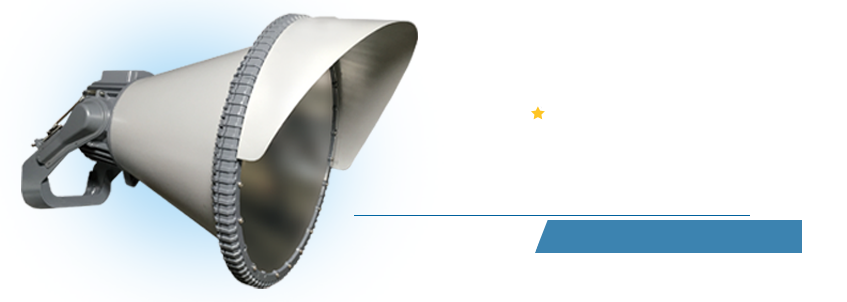
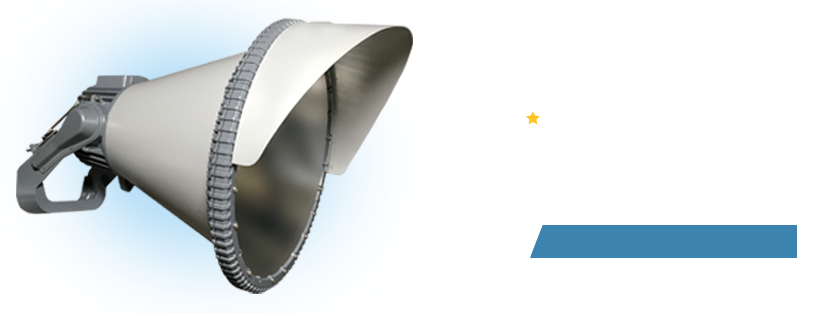
u

diff --git a/wanjie/css/common.css b/wanjie/css/common.css
@@ -15,6 +15,9 @@ body {
 	height: 60px;
 	padding: 10px;
 	margin-bottom: 0px;
+	position: fixed;
+    width: 100%;
+    z-index: 99999;
 }
 #wanjie_title {
 	float: right;
@@ -39,7 +42,7 @@ body {
 	display: none;
     border-bottom: 1px solid #2F7096;
     margin: 0 auto;
-    margin-top: -5px;
+    margin-top: -1px;
 }
 #wanjie_title>li>a:focus, #wanjie_title>li>a:hover {
     background-color: transparent;
@@ -55,15 +58,9 @@ body {
 .wanjie_banner {
 	width: 100%;
 	float: left;
+	margin-top: 60px;
 }
-.wanjie_banner_index {
-	width: 100%;
-	float: left;
-	background-image: url('./../images/banner.png');
-	height: 389px;
-    background-size: 100% 100%;
-    background-repeat: no-repeat;
-}
+
 img {
 	width: 100%;
 }
@@ -98,6 +95,8 @@ li {
 	text-align: center;
     padding: 10px;
     line-height: 25px;
+    padding-top: 60px;
+    margin-bottom: -60px;
 }
 .pro_footer {
 	background-color: #e5e9eb;
@@ -178,6 +177,18 @@ img{
 	top: 21%;
 	left: 2.5%;
 }
+.wanjie_banner_index {
+	margin-top: 60px; 
+}
+@media screen and (min-width: 500px) {
+.wanjie_banner_index {
+	width: 100%;
+	float: left;
+	background-image: url('./../images/banner.png');
+	height: 389px;
+    background-size: 100% 100%;
+    background-repeat: no-repeat;
+}
 .wanjie_banner_box {
 	background-image: url('./../images/banner_cover.png');
 	width: 597px;
@@ -186,8 +197,50 @@ img{
     background-position: center;
     background-repeat: no-repeat;
     margin: 0 auto;
+
+}
+.wanjie_banner_text_m {
+    width: 286px;
+    height: 85px;
+    position: relative;
+    float: right;
+    right: 32px;
+    top: 145px;
+    /*border: 1px solid;*/
+    color: #fff;
+    text-align: right;
+}
+.wanjie_banner_text_m .wanjie_banner_text1 {
+	font-size: 37px;
+    letter-spacing: 3px;
+}
+.wanjie_banner_text_m .wanjie_banner_text2 {
+	font-size: 12px;
+}
+}
+@media screen and (max-width: 500px) {
+.wanjie_banner_index {
+	width: 100%;
+	float: left;
+	background-image: url('./../images/banner.png');
+	height: 289px;
+    background-size: 100% 100%;
+    background-repeat: no-repeat;
+}
+.wanjie_banner_box {
+	background-image: url('./../images/banner_cover_m.png');
+	width: 100% !important;
+    height: 320px;
+    background-size: 100%;
+    background-position: center;
+    background-repeat: no-repeat;
+    margin: 0 auto;
+}
+.wanjie_banner_text_m {
+    display: none;
 }
 
+}
 .banner_text .inner_text{
 	font-size: 24px;
 	display: block;
@@ -292,9 +345,10 @@ img{
     overflow: hidden;
     width: 90px;
     position: relative;
+    font-size: 12px;
 }
 #wanjie_title_m .hid {
-	padding-left: 0px !important;
+	padding-left: 6px !important;
 }
 #wanjie_title_m>li>a:focus, #wanjie_title_m>li>a:hover {
     background-color: transparent;
@@ -477,19 +531,19 @@ p{margin: 0;padding: 0;}
 	padding: 1px 0;
 }
 .icon-1{
-	background-image: url(../images/icon_1.jpg);
+	background-image: url(../images/icon_1.png);
 }
 .icon-2{
-	background-image: url(../images/icon_2.jpg);
+	background-image: url(../images/icon_2.png);
 }
 .icon-3{
-	background-image: url(../images/icon_3.jpg);
+	background-image: url(../images/icon_3.png);
 }
 .icon-4{
-	background-image: url(../images/icon_4.jpg);
+	background-image: url(../images/icon_4.png);
 }
 .icon-5{
-	background-image: url(../images/icon_5.jpg);
+	background-image: url(../images/icon_5.png);
 }
 
 /*table*/
@@ -554,24 +608,7 @@ p{margin: 0;padding: 0;}
     color: #fff;
     text-align: right;
 }
-.wanjie_banner_text_m {
-    width: 286px;
-    height: 85px;
-    position: relative;
-    float: right;
-    right: 32px;
-    top: 145px;
-    /*border: 1px solid;*/
-    color: #fff;
-    text-align: right;
-}
-.wanjie_banner_text_m .wanjie_banner_text1 {
-	font-size: 37px;
-    letter-spacing: 3px;
-}
-.wanjie_banner_text_m .wanjie_banner_text2 {
-	font-size: 12px;
-}
+
 .wanjie_banner_text span {
 	display: block;
 }

diff --git a/wanjie/call.html b/wanjie/call.html
@@ -4,13 +4,25 @@
 <meta charset="utf-8">
 <meta http-equiv="X-UA-Compatible" content="IE=edge,chrome=1">
 <meta name="viewport" content="width=device-width, initial-scale=1.0, maximum-scale=1.0, user-scalable=no">
-<title>产品介绍－上海万介智能科技有限公司</title>
+<title>联系我们－上海万介智能科技有限公司</title>
 <meta name="description" content="">
 <meta name="keywords" content="">
 <link rel="stylesheet" href="http://cdn.bootcss.com/bootstrap/3.3.5/css/bootstrap.min.css">
 <script src="http://cdn.bootcss.com/jquery/1.11.3/jquery.min.js"></script>
 <script src="http://cdn.bootcss.com/bootstrap/3.3.5/js/bootstrap.min.js"></script>
 <link rel="stylesheet" type="text/css" href="./css/common.css">
+<link rel="stylesheet" type="text/css" href="./css/mobile.css">
+<style type="text/css">
+@media screen and (max-width: 767px) {
+body {
+	font-size:12px;
+}
+.call_content_inner {
+	height: 480px;
+	background-image: none;
+}
+}	
+</style>
 </head>
 <body>
 <!-- 导航开始 -->

diff --git a/wanjie/index.html b/wanjie/index.html
@@ -52,7 +52,7 @@
 	<ul>
 		<li>
 			<img src="./images/page_1.png">
-			<!-- <video src="http://ali.ldsnwangjun.cn/Final.mp4" controls="controls" loop="loop" autoplay="autoplay" id="media"></video> -->
+			<!-- <video src="http://kylerstudio.com/wanjie/video580.mp4" controls="controls" loop="loop" autoplay="autoplay" id="media"></video> -->
 		</li>
 		<li><a href="./program.html?#anli" class="wanjie_img"><img src="./images/page_2.png"><span>应用案例</span></a></li>
 		<li><a href="./program.html?1#fanwei" class="wanjie_img"><img src="./images/page_3.png"><span>应用范围</span></a></li>
@@ -113,7 +113,7 @@ $(document).ready(function() {
 			$('.wanjie_button').css('display', 'none');
 			$('.wanjie_img').find('span').css('margin-top', '0px')
 			$('.wanjie_banner_box').css('width', '597px')
-			$('.wanjie_banner_text_m').addClass('wanjie_banner_text').removeClass('wanjie_banner_text_m')
+			$('.wanjie_banner_text_m').addClass('wanjie_banner_text').removeClass('wanjie_banner_text_m');
 
 		}
 	}

diff --git a/wanjie/program.html b/wanjie/program.html
@@ -101,7 +101,7 @@
 	<div class="title">机场 | 码头</div>
 	<div class="record">
 		<div class="item">
-			<div class="img-wrap"><img src="images/range_1.jpg"></div>
+			<div class="img-wrap"><img src="images/range_1.png"></div>
 			<div class="words-wrap">
 				<div class="bg-black">
 					<p class="con con-3">机场和码头作为关键设施，对照明有特殊性要求：基于场地安全性及功能性的考量，照明系统应具备投射距离远，长寿命、低维护，高显色性，可调光及智能化远程控制等功能，以提供优良的照明光环境，满足运营安全、视频监控和自动化作业的需要。 </p>

diff --git a/wanjie/about.html b/wanjie/about.html
@@ -4,7 +4,7 @@
 <meta charset="utf-8">
 <meta http-equiv="X-UA-Compatible" content="IE=edge,chrome=1">
 <meta name="viewport" content="width=device-width, initial-scale=1.0, maximum-scale=1.0, user-scalable=no">
-<title>产品介绍－上海万介智能科技有限公司</title>
+<title>关于－上海万介智能科技有限公司</title>
 <meta name="description" content="">
 <meta name="keywords" content="">
 <link rel="stylesheet" href="http://cdn.bootcss.com/bootstrap/3.3.5/css/bootstrap.min.css">

diff --git a/wanjie/product.html b/wanjie/product.html
@@ -4,7 +4,7 @@
 <meta charset="utf-8">
 <meta http-equiv="X-UA-Compatible" content="IE=edge,chrome=1">
 <meta name="viewport" content="width=device-width, initial-scale=1.0, maximum-scale=1.0, user-scalable=no">
-<title>产品介绍－上海万介智能科技有限公司</title>
+<title>SL1500－上海万介智能科技有限公司</title>
 <meta name="description" content="">
 <meta name="keywords" content="">
 <link rel="stylesheet" href="http://cdn.bootcss.com/bootstrap/3.3.5/css/bootstrap.min.css">

diff --git a/wanjie/product_750.html b/wanjie/product_750.html
@@ -4,7 +4,7 @@
 <meta charset="utf-8">
 <meta http-equiv="X-UA-Compatible" content="IE=edge,chrome=1">
 <meta name="viewport" content="width=device-width, initial-scale=1.0, maximum-scale=1.0, user-scalable=no">
-<title>产品介绍－上海万介智能科技有限公司</title>
+<title>SL750－上海万介智能科技有限公司</title>
 <meta name="description" content="">
 <meta name="keywords" content="">
 <link rel="stylesheet" href="http://cdn.bootcss.com/bootstrap/3.3.5/css/bootstrap.min.css">

diff --git a/wanjie/css/mobile.css b/wanjie/css/mobile.css
@@ -33,7 +33,7 @@
 	}
 	.wanjie_footer_inner span{
 		display: block;
-		font-size: 1rem;
+		font-size: 12px;
 		line-height: 1.5rem;
 		text-align: center;
 		color: #999999;
